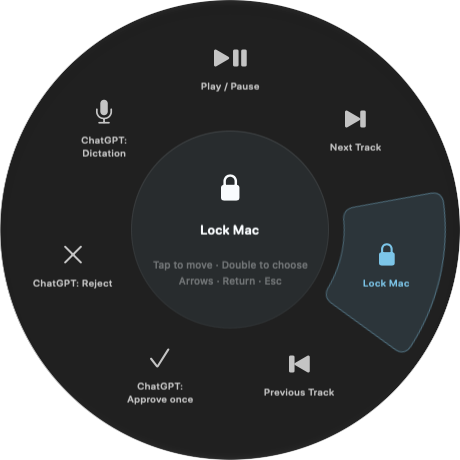
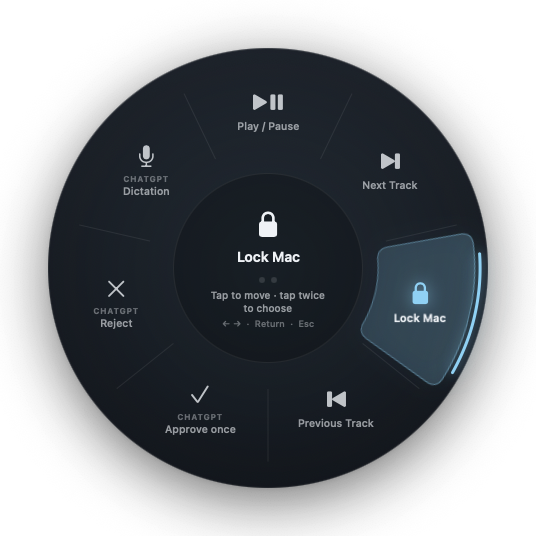
Refresh README images and copy for the redesign
New window captures of Live, Actions, calibration and the ring, framed on
the app's graphite palette with SF type. Copy now matches the new UI and
mentions that clicks are ignored like typing.

diff --git a/scripts/readme-media.py b/scripts/readme-media.py
@@ -7,8 +7,9 @@ The captures are real Tap That Mac windows, taken with `screencapture -o -l <win
 script only frames them. Each image is an HTML page screenshotted by headless Chrome at 2x, so a
 1x window capture placed at half its width lands on the page pixel for pixel.
 
-Palette, from the Live graph: cyan is motion, violet is the light-tap impulse, gold is the
-threshold a tap must cross. The hero's double-tap trace is drawn, not captured.
+Palette, from the app's Design.swift: graphite surfaces; cyan is motion, violet is the
+light-tap impulse, gold is the threshold a tap must cross. Type is SF, with small tracked caps
+for labels, as in the app. The hero's double-tap trace is drawn, not captured.
 """
 
 import random
@@ -27,35 +28,35 @@ FONTS = ("https://fonts.googleapis.com/css2?family=Bricolage+Grotesque:"
          "opsz,wdth,wght@12..96,75..100,400..800&display=block")
 
 BASE_CSS = """
-:root { --abyss:#08131D; --deep:#0E2030; --ink:#EAF2F8; --muted:rgba(234,242,248,.62);
-  --faint:rgba(234,242,248,.38); --rule:rgba(127,211,247,.12);
+:root { --abyss:#0B0F14; --deep:#141A21; --ink:#EEF2F6; --muted:rgba(238,242,246,.62);
+  --faint:rgba(238,242,246,.38); --rule:rgba(255,255,255,.05);
   --cyan:#7FD3F7; --violet:#B9A6FF; --gold:#E9B949; --rose:#FF6F86; }
 * { margin:0; padding:0; box-sizing:border-box; }
 html, body { background:transparent; }
 body { position:relative; overflow:hidden; color:var(--ink);
   font:400 14px/1.45 -apple-system, "SF Pro Text", system-ui; -webkit-font-smoothing:antialiased; }
 .stage { position:absolute; inset:0; border-radius:18px; overflow:hidden; background:var(--abyss);
-  box-shadow: inset 0 0 0 1px rgba(127,211,247,.10); }
+  box-shadow: inset 0 0 0 1px rgba(255,255,255,.08); }
 .grid { position:absolute; inset:0;
   background-image: linear-gradient(to right, var(--rule) 1px, transparent 1px),
                     linear-gradient(to bottom, var(--rule) 1px, transparent 1px);
   background-size: 44px 44px; background-position: -1px -1px;
   mask-image: radial-gradient(120% 90% at 70% 40%, #000 30%, transparent 85%); opacity:.55; }
-.display { font-family:"Bricolage Grotesque", -apple-system, system-ui; font-variation-settings:"wdth" 80;
-  font-weight:800; letter-spacing:-.035em; line-height:.9; }
-.mono { font-family: ui-monospace, "SF Mono", Menlo, monospace; letter-spacing:.06em; text-transform:uppercase; }
-.eyebrow { font: 600 10.5px/1 ui-monospace, "SF Mono", Menlo, monospace; letter-spacing:.14em;
-  text-transform:uppercase; color:var(--cyan); }
+.display { font-family:-apple-system, "SF Pro Display", system-ui; font-weight:800; letter-spacing:-.04em;
+  line-height:.95; }
+.mono { font-family:-apple-system, system-ui; font-weight:700; letter-spacing:.1em; text-transform:uppercase; }
+.eyebrow { font: 650 10.5px/1 -apple-system, system-ui; letter-spacing:.12em;
+  text-transform:uppercase; color:var(--faint); }
+.eyebrow.cyan { color:var(--cyan); }
 .window { position:absolute; border-radius:11px; overflow:hidden;
   box-shadow: 0 0 0 .5px rgba(255,255,255,.18), 0 28px 60px rgba(0,0,0,.55), 0 6px 16px rgba(0,0,0,.35); }
 .window img { display:block; }
-.tag { display:inline-block; font:700 9.5px/1 ui-monospace, "SF Mono", Menlo, monospace; letter-spacing:.12em;
-  padding:5px 7px 4px; border-radius:5px; text-transform:uppercase; }
-.tag.ready { color:var(--cyan); box-shadow: inset 0 0 0 1px rgba(127,211,247,.45); }
-.tag.alpha { color:#120B2A; background:var(--violet); }
-.tag.exp { color:var(--gold); box-shadow: inset 0 0 0 1px rgba(233,185,73,.5); }
-h2 { font-family:"Bricolage Grotesque", -apple-system, system-ui; font-variation-settings:"wdth" 85;
-  font-weight:750; font-size:30px; letter-spacing:-.025em; line-height:1; }
+.tag { display:inline-block; font:700 9px/1 -apple-system, system-ui; letter-spacing:.09em;
+  padding:4px 7px; border-radius:99px; text-transform:uppercase; }
+.tag.ready { color:var(--cyan); background:rgba(127,211,247,.1); box-shadow: inset 0 0 0 .75px rgba(127,211,247,.4); }
+.tag.alpha { color:var(--violet); background:rgba(185,166,255,.1); box-shadow: inset 0 0 0 .75px rgba(185,166,255,.4); }
+.tag.exp { color:var(--gold); background:rgba(233,185,73,.1); box-shadow: inset 0 0 0 .75px rgba(233,185,73,.4); }
+h2 { font-family:-apple-system, system-ui; font-weight:750; font-size:30px; letter-spacing:-.03em; line-height:1; }
 """
 
 
@@ -144,11 +145,10 @@ def hero(work):
 .brand { position:absolute; left:44px; top:40px; display:flex; align-items:center; gap:10px;
   font:650 15px -apple-system, system-ui; letter-spacing:-.01em; }
 .brand img { width:30px; height:30px; filter: drop-shadow(0 4px 10px rgba(0,0,0,.4)); }
-h1 { position:absolute; left:42px; top:104px; font-size:76px; width:440px; letter-spacing:-.01em;
-  font-variation-settings:"wdth" 88, "opsz" 96; font-weight:780; }
+h1 { position:absolute; left:42px; top:104px; font-size:70px; width:440px; }
 .lede { position:absolute; left:44px; top:268px; width:330px; font-size:15px; line-height:1.5; color:var(--muted); }
 .trace { position:absolute; left:0; top:372px; }
-.svgmono { font: 600 10px ui-monospace, "SF Mono", Menlo, monospace; letter-spacing:.14em; }
+.svgmono { font: 700 10px -apple-system, system-ui; letter-spacing:.12em; }
 """
     capture("hero", body, w, h, work, css)
 
@@ -167,9 +167,9 @@ def actions(work):
     body = f"""
 <div class=stage>
   <div class=grid></div>
-  <div class="window" style="left:36px;top:36px">{shot("actions", 0, 0, 1000, 548, 0.46)}</div>
+  <div class="window" style="left:36px;top:36px">{shot("actions", 0, 0, 1000, 900, 0.4)}</div>
   <div class=col>
-    <div class=eyebrow>A double-tap can</div>
+    <div class="eyebrow cyan">A double-tap can</div>
     <ul>{items}</ul>
     <p>Pick one in <b>Actions</b>. Lock Mac and Play / Pause show a quick ring animation before they run.</p>
   </div>
@@ -203,18 +203,17 @@ def ring(work):
     css = """
 .desk { background:
   radial-gradient(45% 60% at 26% 55%, rgba(127,211,247,.13), transparent 70%),
-  radial-gradient(45% 60% at 70% 55%, rgba(185,166,255,.12), transparent 70%), var(--abyss); }
+  radial-gradient(45% 60% at 70% 55%, rgba(185,166,255,.10), transparent 70%), var(--abyss); }
 .stamp { position:absolute; left:36px; top:30px; display:flex; align-items:center; gap:12px;
   font-size:13px; color:var(--muted); }
-.ring { position:absolute; top:84px; width:250px; height:250px;
-  filter: drop-shadow(0 24px 40px rgba(0,0,0,.55)); }
-.r1 { left:84px; } .r2 { left:470px; }
+.ring { position:absolute; top:58px; width:304px; height:304px; }
+.r1 { left:57px; } .r2 { left:443px; }
 .step { position:absolute; top:168px; width:110px; text-align:center; }
-.step .mono { font:700 11px ui-monospace, "SF Mono", Menlo, monospace; letter-spacing:.14em; color:var(--violet); }
+.step .mono { font:700 11px -apple-system, system-ui; letter-spacing:.12em; color:var(--violet); }
 .step .arrow { font-size:26px; color:var(--violet); line-height:1.1; }
 .step .note { font-size:12px; color:var(--muted); margin-top:4px; }
 .opens { position:absolute; left:84px; top:352px; width:250px; text-align:center; font-size:12px; color:var(--muted); }
-.opens .mono { font:700 11px ui-monospace, "SF Mono", Menlo, monospace; letter-spacing:.14em; color:var(--cyan); margin-right:4px; }
+.opens .mono { font:700 11px -apple-system, system-ui; letter-spacing:.12em; color:var(--cyan); margin-right:4px; }
 """
     capture("ring", body, w, h, work, css)
 
@@ -224,15 +223,15 @@ def live(work):
     legend = [
         ("cyan", "Motion", "Everything the sensor feels: taps, typing, a bumped desk."),
         ("violet", "Light-tap impulse", "The sharp start of a tap, picked out of the motion."),
-        ("gold", "Threshold", "A tap has to rise above it. Drag it, or choose Set for light taps."),
+        ("gold", "Threshold", "A tap has to rise above it. Drag the gold pill, or choose Light taps."),
     ]
     items = "".join(f"<li><i class='{c}'></i><div><b>{t}</b><span>{d}</span></div></li>" for c, t, d in legend)
     body = f"""
 <div class=stage>
   <div class=grid></div>
-  <div class="window" style="left:36px;top:36px">{shot("live", 0, 0, 1000, 976, 0.5)}</div>
+  <div class="window" style="left:36px;top:36px">{shot("live", 0, 0, 1000, 1010, 0.5)}</div>
   <div class=col>
-    <div class=eyebrow>Live, at 800 Hz</div>
+    <div class="eyebrow cyan">Live, at 800 Hz</div>
     <ul>{items}</ul>
     <div class=modes>
       <div class=mode><b>Active</b><span>runs your action</span></div>
@@ -259,7 +258,7 @@ li span { display:block; font-size:12.5px; color:var(--muted); margin-top:2px; }
 
 
 def calibrate(work):
-    w, h = 880, 440
+    w, h = 880, 580
     steps = [
         "Everyday desk activity: typing, leaning, moving things",
         "Leg and table movement",
@@ -271,19 +270,19 @@ def calibrate(work):
     body = f"""
 <div class=stage>
   <div class=grid></div>
-  <div class="window" style="left:36px;top:36px">{shot("calibrate", 0, 0, 1000, 736, 0.5)}</div>
+  <div class="window" style="left:36px;top:36px">{shot("calibrate", 0, 0, 1000, 1010, 0.5)}</div>
   <div class=col>
-    <div class=eyebrow>About two minutes</div>
+    <div class="eyebrow cyan">About two minutes</div>
     <ol>{items}</ol>
     <p>Only a profile that passes the check is applied. Nothing leaves your Mac.</p>
   </div>
 </div>"""
     css = """
-.col { position:absolute; left:576px; top:60px; width:270px; }
+.col { position:absolute; left:576px; top:118px; width:270px; }
 ol { list-style:none; margin-top:18px; }
 li { display:flex; gap:12px; padding:10px 0; border-top:1px solid rgba(234,242,248,.09); font-size:13.5px; }
 li:last-child { border-bottom:1px solid rgba(234,242,248,.09); }
-.n { flex:none; width:16px; font:600 12px ui-monospace, "SF Mono", Menlo, monospace; color:var(--cyan); padding-top:1px; }
+.n { flex:none; width:16px; font:700 12px -apple-system, system-ui; color:var(--cyan); padding-top:1px; }
 .col p { margin-top:16px; font-size:12.5px; color:var(--muted); }
 """
     capture("calibrate", body, w, h, work, css)

diff --git a/README.md b/README.md
@@ -56,7 +56,7 @@ That clears the download flag for this one app. It doesn't turn off Gatekeeper.
 | Permission | Why |
 | --- | --- |
 | **Accessibility** | Lets a double-tap lock the screen, control media or press a ChatGPT button. |
-| **Input Monitoring** | Lets it ignore taps that land while you're typing. It looks only at key timing, never at what you type. |
+| **Input Monitoring** | Lets it ignore taps that land while you're typing or clicking, since a trackpad click shakes the Mac like a tap. It looks only at timing, never at what you type or where you click. |
 
 **2. Choose what a double-tap does.** Open **Actions** and choose one. **Lock Mac** is a good first choice.
 
@@ -68,19 +68,19 @@ That clears the download flag for this one app. It doesn't turn off Gatekeeper.
 
 ## One double-tap, one action
 
-<img src="media/actions.png" alt="The Actions view with the double-tap picker, beside the list of actions: Lock Mac, Play / Pause, Next Track and Previous Track work; Ring is pre-alpha; ChatGPT controls are experimental">
+<img src="media/actions.png" alt="The Actions view: a tile for each action, grouped as works today, the pre-alpha command ring and experimental ChatGPT controls, beside the same list with its status tags">
 
-Pick a single action for a double-tap. **Lock Mac**, **Play / Pause**, **Next Track** and **Previous Track** work today. Before Lock Mac or Play / Pause runs, a ring flashes up and highlights it, so you can see what your taps did. A quiet chime and a trackpad tick confirm it; press Escape in that moment to cancel.
+Pick a single action for a double-tap from the tiles in **Actions**. **Lock Mac**, **Play / Pause**, **Next Track** and **Previous Track** work today. Before Lock Mac or Play / Pause runs, a ring flashes up and highlights it, so you can see what your taps did. A quiet chime and a trackpad tick confirm it; press Escape in that moment to cancel.
 
 The **ChatGPT controls** (Approve once, Reject, Dictation) press the matching button on the ChatGPT page you have open. They're experimental.
 
 ## See every tap
 
-<img src="media/live.png" alt="The Live view: the streaming accelerometer graph at 806 Hz, with the gold threshold, and a legend for motion, light-tap impulse and threshold">
+<img src="media/live.png" alt="The Live view: tap and double-tap counts, the streaming accelerometer graph at 806 Hz with the gold threshold, and the mode switch in the sidebar, beside a legend for motion, light-tap impulse and threshold">
 
-The **Live** view draws the sensor 800 times a second. **Cyan** is all motion. **Violet** picks out the sharp start of a light tap. The **gold** line is the threshold a tap has to cross: drag it down if your taps don't register, up if bumps set it off, or choose **Set for light taps**.
+The **Live** view draws the sensor 800 times a second. **Cyan** is all motion. **Violet** picks out the sharp start of a light tap. The **gold** line is the threshold a tap has to cross: drag its pill down if your taps don't register, up if bumps set it off, or choose **Light taps**. Every tap leaves a mark on the graph, and a recognized double-tap gets a bracket, so you can see which taps counted.
 
-The mode switch at the bottom of every view decides what happens:
+The **Mode** switch in the sidebar decides what happens:
 
 - **Active** runs your action.
 - **Test** shows what it recognized without running anything. Use it while you get a feel for it.
@@ -88,7 +88,7 @@ The mode switch at the bottom of every view decides what happens:
 
 ## Tuned to your desk
 
-<img src="media/calibrate.png" alt="Calibration: Tune for your desk, with a choice of open Mac on desk or closed Mac with an external display, and the five rounds it records">
+<img src="media/calibrate.png" alt="Calibration: Tune it to your desk, with a choice of open Mac on desk or closed Mac with an external display, and the five rounds it records">
 
 Every desk feels different. Choose **Calibrate…** in Live, pick **Open Mac on desk** or **Closed Mac · external display**, and follow along for about two minutes. It records ordinary desk activity first, then your own taps and knocks, singly and in pairs, and finishes with a fresh round that checks the new settings. A profile is applied only if it passes that check; if calibration fails, your current settings stay. Keep one profile per setup and switch between them as you move. Lap use isn't supported.
 
@@ -105,15 +105,17 @@ Set the double-tap to **Ring** and every action sits on a wheel:
 - **Double-tap** again runs the highlighted action.
 - Arrow keys, Return, Escape and the pointer work too.
 
+Two dots in the middle of the ring light up as your taps land, so you can see whether it heard one tap or two.
+
 > [!WARNING]
-> **The ring is pre-alpha.** Telling a single tap from a double depends on timing (450 ms by default, and calibration can stretch it), and that isn't reliable yet. Expect the highlight to skip a step, miss a tap, or choose too early. To try it without consequences, use **Actions › Preview command ring**: it never runs anything. Bug reports with your Mac model and where you tapped are very welcome.
+> **The ring is pre-alpha.** Telling a single tap from a double depends on timing (450 ms by default, and calibration can stretch it), and that isn't reliable yet. Expect the highlight to skip a step, miss a tap, or choose too early. To try it without consequences, choose the ring in **Actions** and press **Try the ring safely**: it never runs anything. Bug reports with your Mac model and where you tapped are very welcome.
 
 <br>
 
 ## Private by design
 
 - **Nothing leaves your Mac.** Tap That Mac has no network code: no analytics, no accounts, no update checks.
-- **It reads motion, not keystrokes.** Input Monitoring is used only to learn *when* a key was pressed, so taps during typing can be ignored.
+- **It reads motion, not keystrokes.** Input Monitoring is used only to learn *when* a key was pressed or the trackpad clicked, so those bumps can be ignored.
 - **Your calibration stays local**, in `~/Library/Application Support/Tap That Mac/`.
 - **No third-party code.** Swift, SwiftUI and AppKit, with no package dependencies.
 
@@ -145,7 +147,7 @@ Tap That Mac is a beta and hasn't been tried on many Macs yet. Some MacBooks may
 
 ## Build from source
 
-Requires Xcode 26 or newer: the app uses the macOS 26 SDK for Liquid Glass and falls back to older materials on macOS 14 and 15. The package uses Swift 5 language mode.
+Requires Xcode 26 or newer. The app runs on macOS 14 and later; every surface, the graph and the ring draw from one set of design tokens in `Sources/TapThatMac/Design.swift`. The package uses Swift 5 language mode.
 
 ```sh
 swift build && swift test         # build and run the test suites
